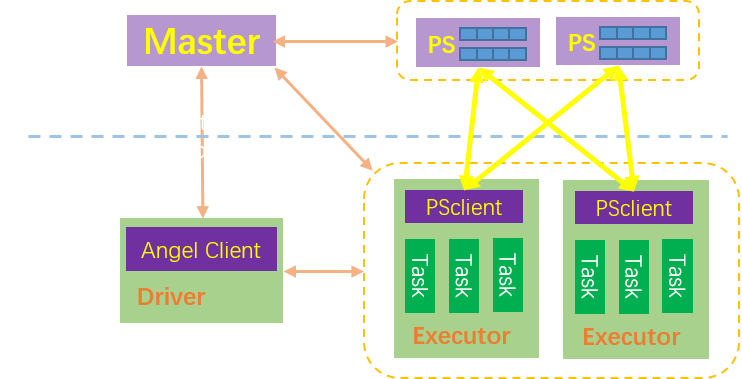
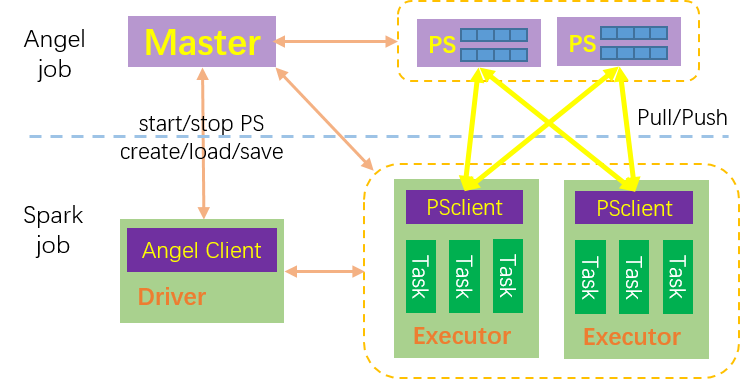
gif test

diff --git a/README.md b/README.md
@@ -1,8 +1,26 @@
 # SONA Overview
 Spark On Angel (SONA), arming Spark with a powerful Parameter Server, which enable Spark to train very big models
 
-![sona_fig01](docs/imgs/sona_fig01.png)
+Similar to Spark MLlib, Spark on Angel is a standalone machine learning library built on Spark (yet it does not rely on Spark MLlib). SONA was based on RDD APIs and only included model training step in previous versions. In Angel 3.0, we introduce various new features to SONA:
+- Integration of feature engineering into SONA. Instead of simply borrowing Spark’s feature engineering operators, we add support for long index vector to all the operators to enable training of high dimensional sparse models. 
+- Seamless connection with automatic hyperparameter tuning.
+- Spark-fashion APIs that introduce no cost for Spark users to switch to Angel.
+- Support for two new data formats: LibFFM and Dummy.
 
+| ![sona_fig01](docs/imgs/sona_fig01.png) |
+|  :----:    |
+| *Figure 1: Architecture of SONA*   |
+
+We also develop a variety of new algorithms on SONA, such as Deep & Cross Network (DCN) and 
+Attention Factorization Machines (AFM). As can be seen from Figure 2, there are significant differences 
+between algorithms on SONA and those on Spark: algorithms on SONA are mainly designated for recommendations 
+and graph embedding, while algorithms on Spark tend to be more general-purpose. 
+
+| ![sona_fig02](docs/imgs/sona_fig02.png) |
+|  :----:    |
+| *Figure 2: Algorithms comparison of Spark and Angel*   |
+
+![](docs/imgs/sparkonangel.gif)
 
 ## Quick Start
 
